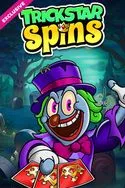
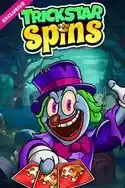
27

diff --git a/index.html b/index.html
@@ -176,8 +176,9 @@
               </a>
               <div class="banner__img">
                 <picture>
-                  <!-- <source srcset="assets/images/banner-mob.webp" media="(max-width: 767px)"> -->
-                  <img src="assets/images/banner.webp" alt="banner" fetchpriority="high">
+                  <source srcset="assets/images/banner-mob.webp" media="(max-width: 767px)">
+                  <source srcset="assets/images/banner.webp" media="(min-width: 768px)">
+                  <img src="assets/images/banner-mob.webp" alt="banner" fetchpriority="high">
                 </picture>
               </div>
             </div>
